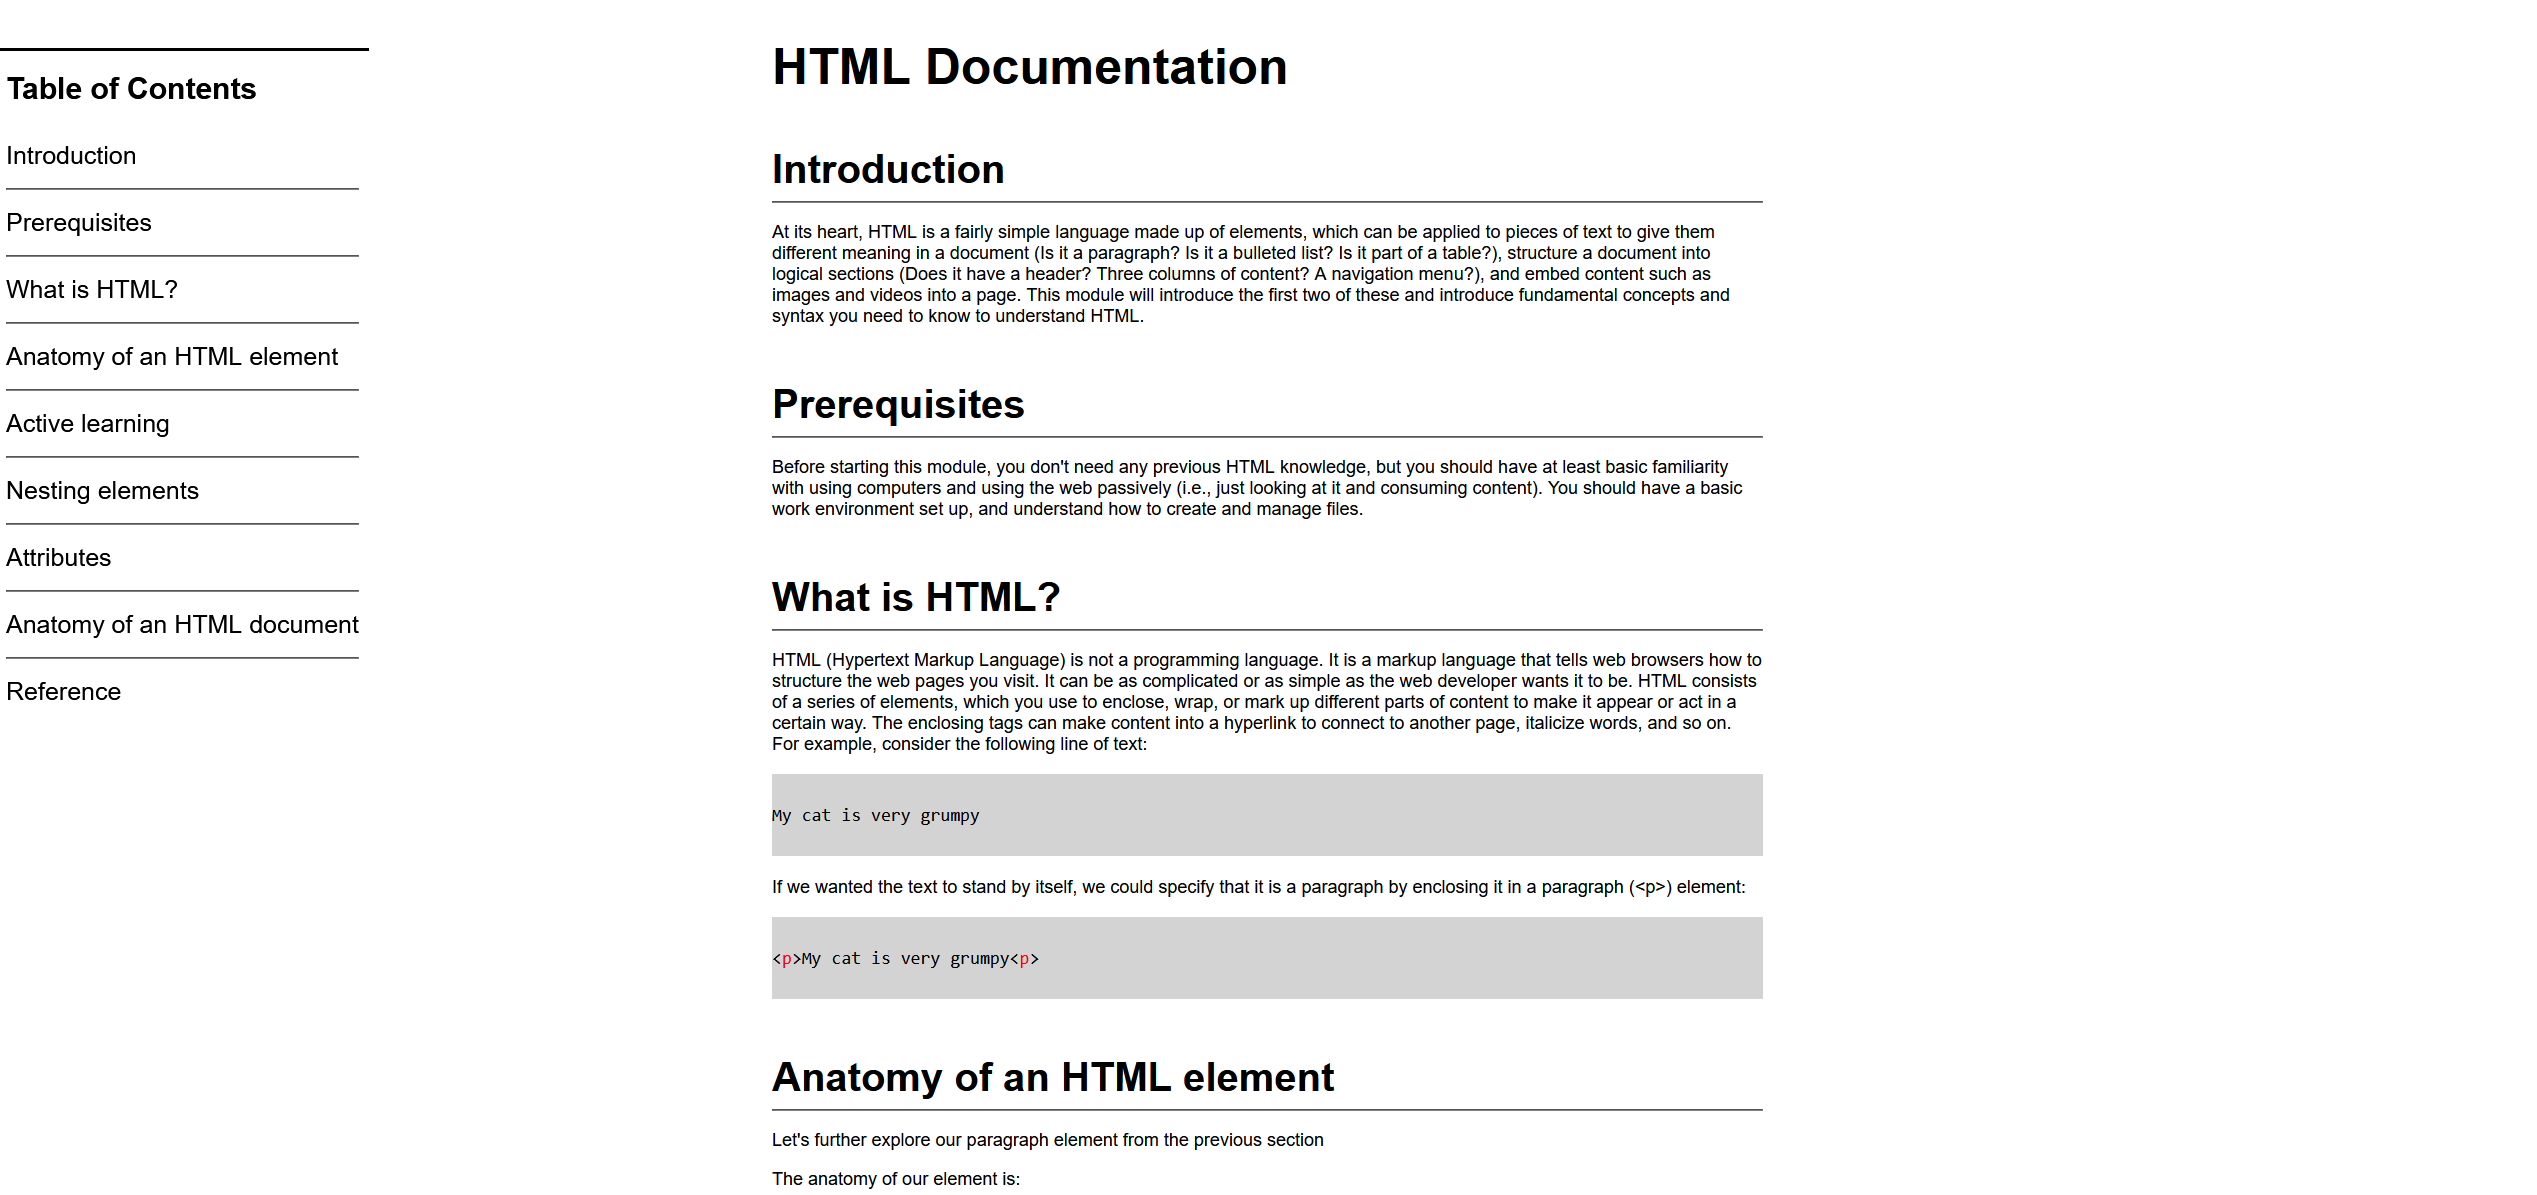
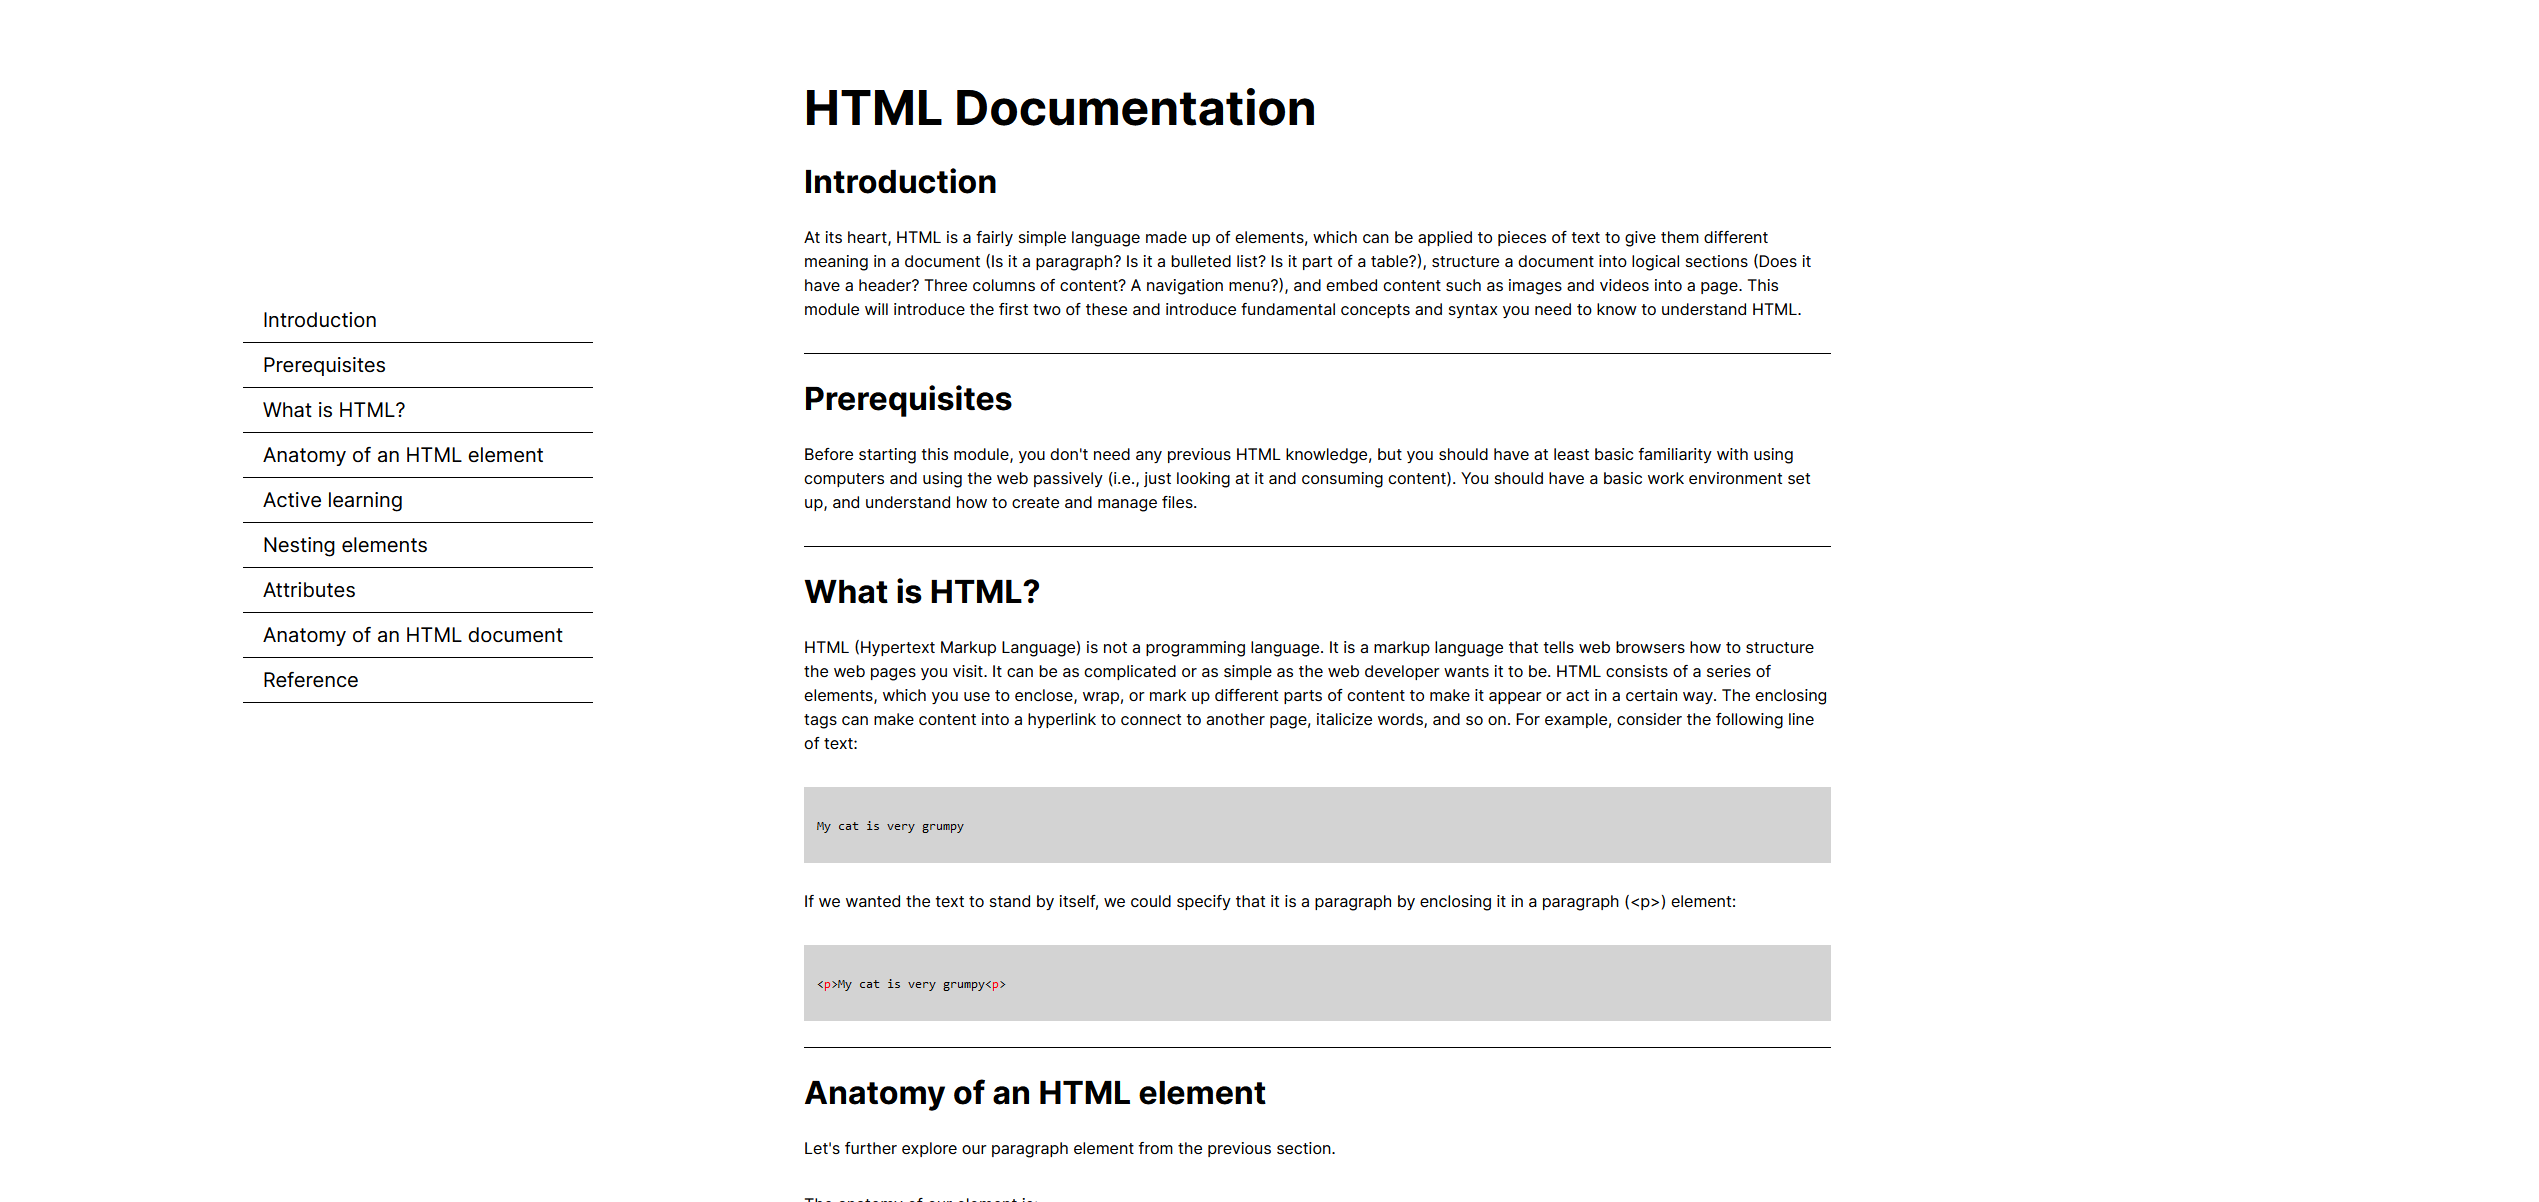
Adding new screenshot of HTML doc page to images folder, updating path in index.html to this image

diff --git a/index.html b/index.html
@@ -162,7 +162,11 @@
           target="_blank"
           class="portfolio__item"
         >
-          <img src="images/HTMLDocPic.png" alt="" class="portfolio__img" />
+          <img
+            src="images/HTMLrevisedDocPic.png"
+            alt=""
+            class="portfolio__img"
+          />
         </a>
       </div>
     </section>
